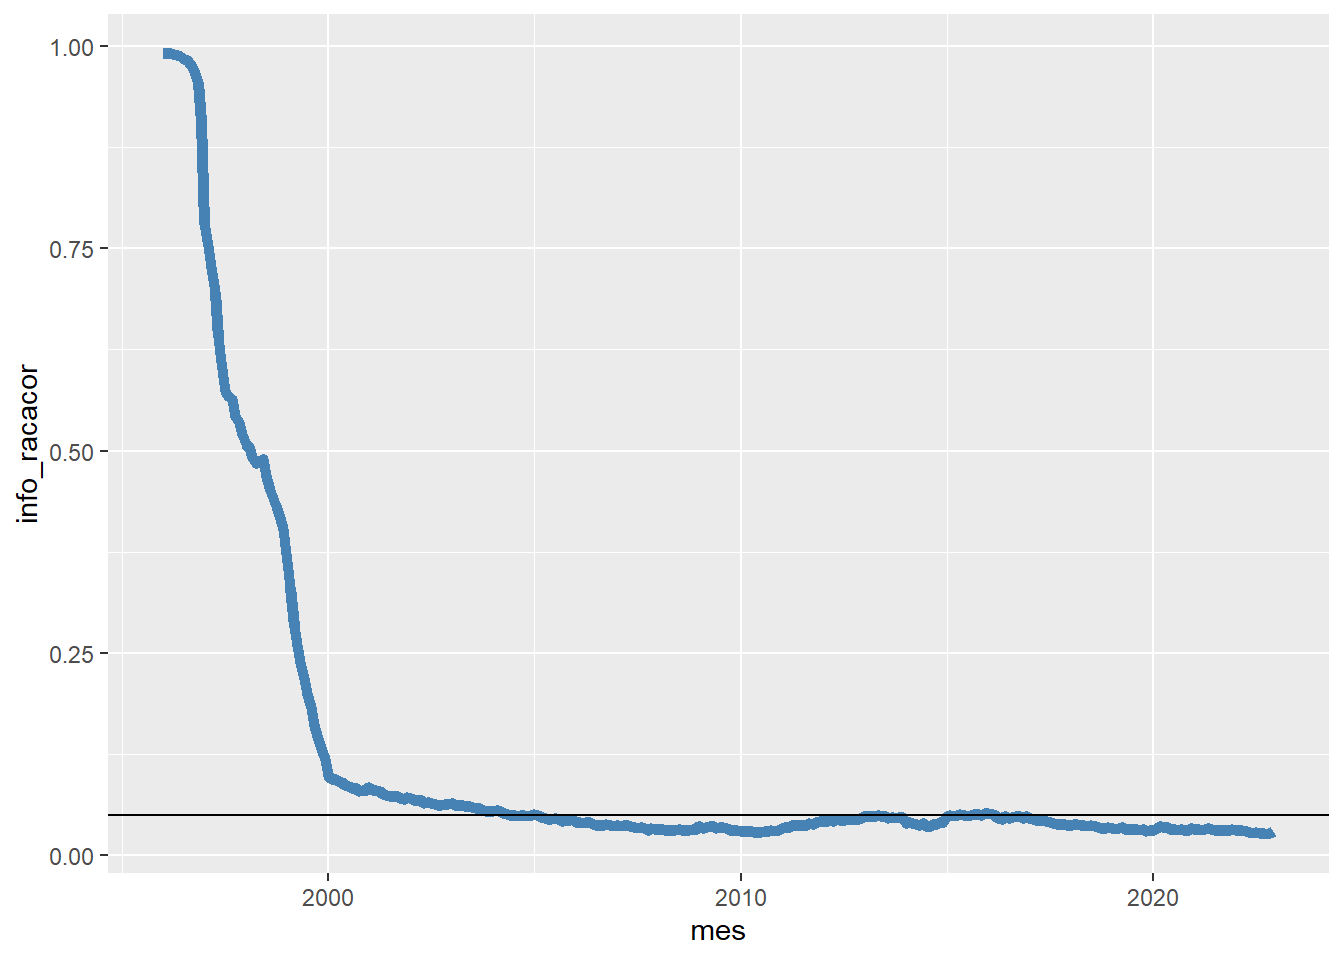
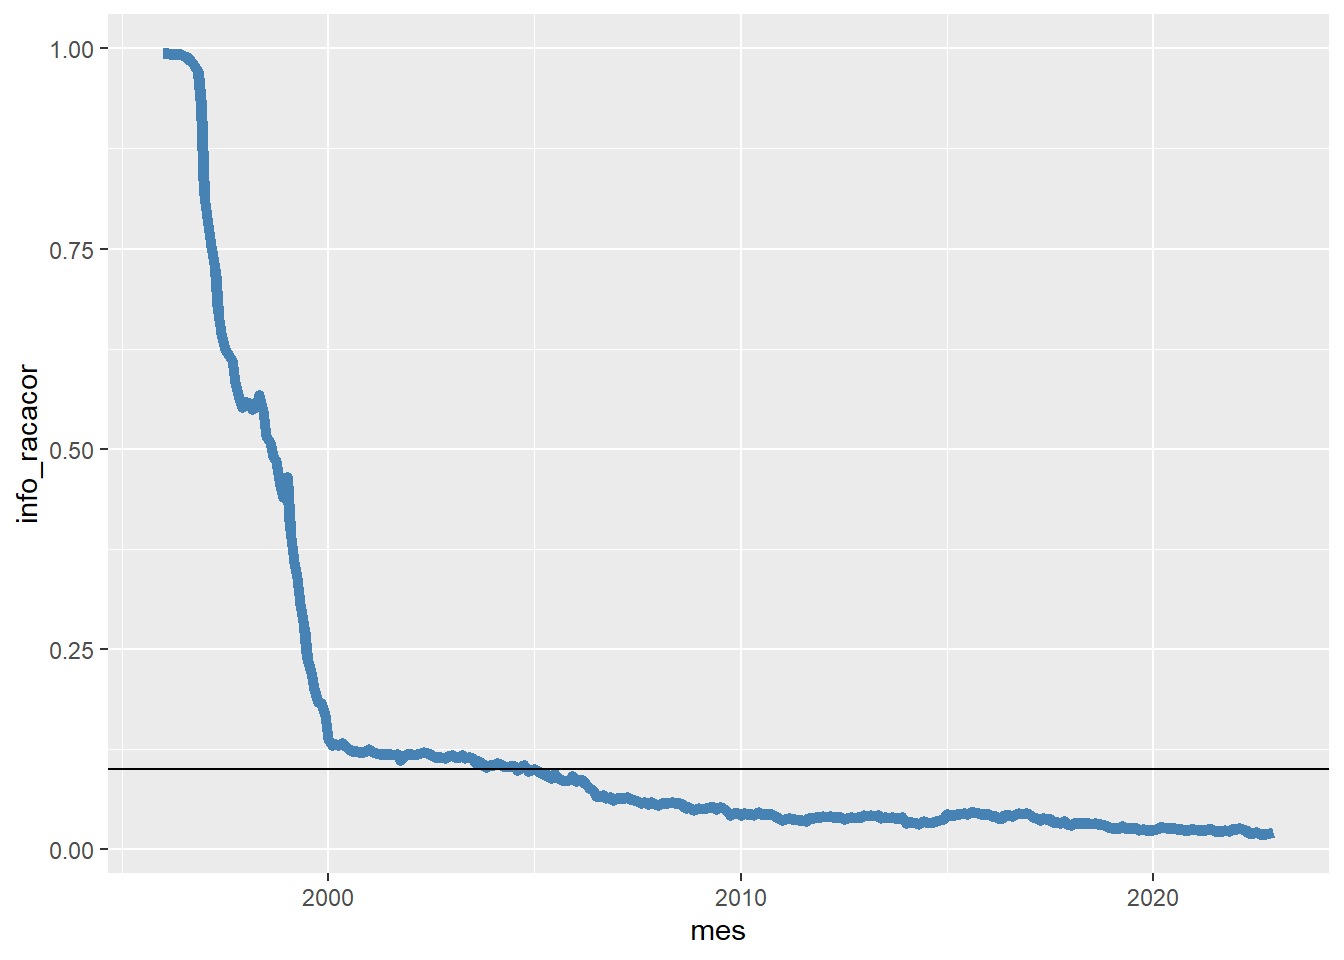
Parâmetros do modelo registrados em um arquivo específico e 'sinasc_grupos_nascimento' corrigido

diff --git a/Memória de cálculo.html b/Memória de cálculo.html
@@ -106,7 +106,7 @@ pre > code.sourceCode > span > a:first-child::before { text-decoration: underlin
 <span id="cb1-3"><a href="#cb1-3" aria-hidden="true" tabindex="-1"></a></span>
 <span id="cb1-4"><a href="#cb1-4" aria-hidden="true" tabindex="-1"></a><span class="fu">library</span>(tidyverse)</span>
 <span id="cb1-5"><a href="#cb1-5" aria-hidden="true" tabindex="-1"></a><span class="fu">library</span>(scales)</span>
-<span id="cb1-6"><a href="#cb1-6" aria-hidden="true" tabindex="-1"></a>ref_corte <span class="ot">&lt;-</span> .<span class="dv">05</span></span>
+<span id="cb1-6"><a href="#cb1-6" aria-hidden="true" tabindex="-1"></a></span>
 <span id="cb1-7"><a href="#cb1-7" aria-hidden="true" tabindex="-1"></a>sinasc_cor_raca_informado <span class="sc">|&gt;</span> </span>
 <span id="cb1-8"><a href="#cb1-8" aria-hidden="true" tabindex="-1"></a>  <span class="fu">ggplot</span>(<span class="fu">aes</span>(<span class="at">x =</span> mes, <span class="at">y =</span> info_racacor))<span class="sc">+</span></span>
 <span id="cb1-9"><a href="#cb1-9" aria-hidden="true" tabindex="-1"></a>  <span class="fu">geom_line</span>(<span class="at">color =</span> <span class="st">'steelblue'</span>, <span class="at">size =</span> <span class="dv">2</span>)<span class="sc">+</span></span>
@@ -119,11 +119,11 @@ pre > code.sourceCode > span > a:first-child::before { text-decoration: underlin
 </div>
 </div>
 </div>
-<p>A partir de 07/01/2004 mais de 95% dos dados de cor/raça foram informados. Por esse motivo, o ano de 2004 será usado como base para o estudo e identificação dos grupos.</p>
+<p>A partir de 01/08/2004 mais de 90% dos dados de cor/raça foram informados. Por esse motivo, o ano de 2004 será usado como base para o estudo e identificação dos grupos.</p>
 </section>
 <section id="riscos-identificados" class="level2">
 <h2 class="anchored" data-anchor-id="riscos-identificados">Riscos identificados</h2>
-<p>60678 312274</p>
+<p>59121 312274</p>
 </section>
 
 </main>
